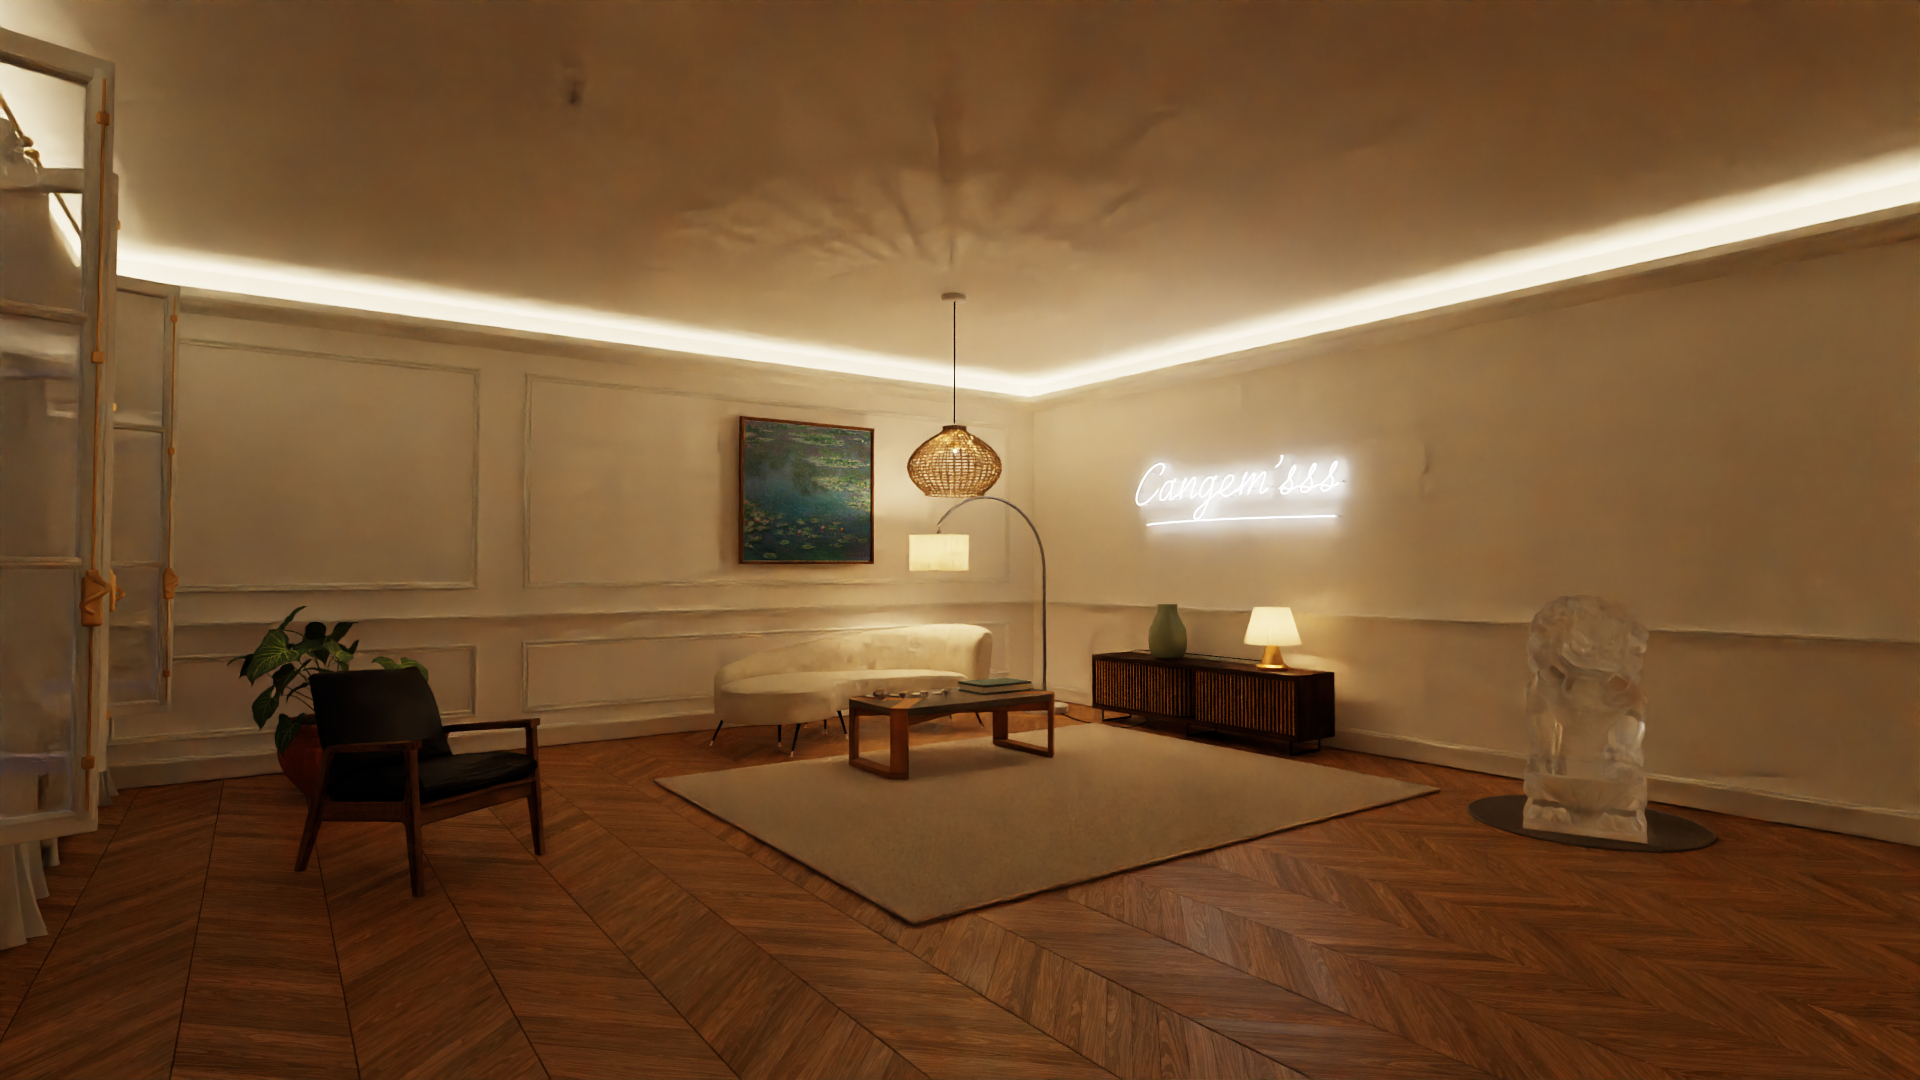
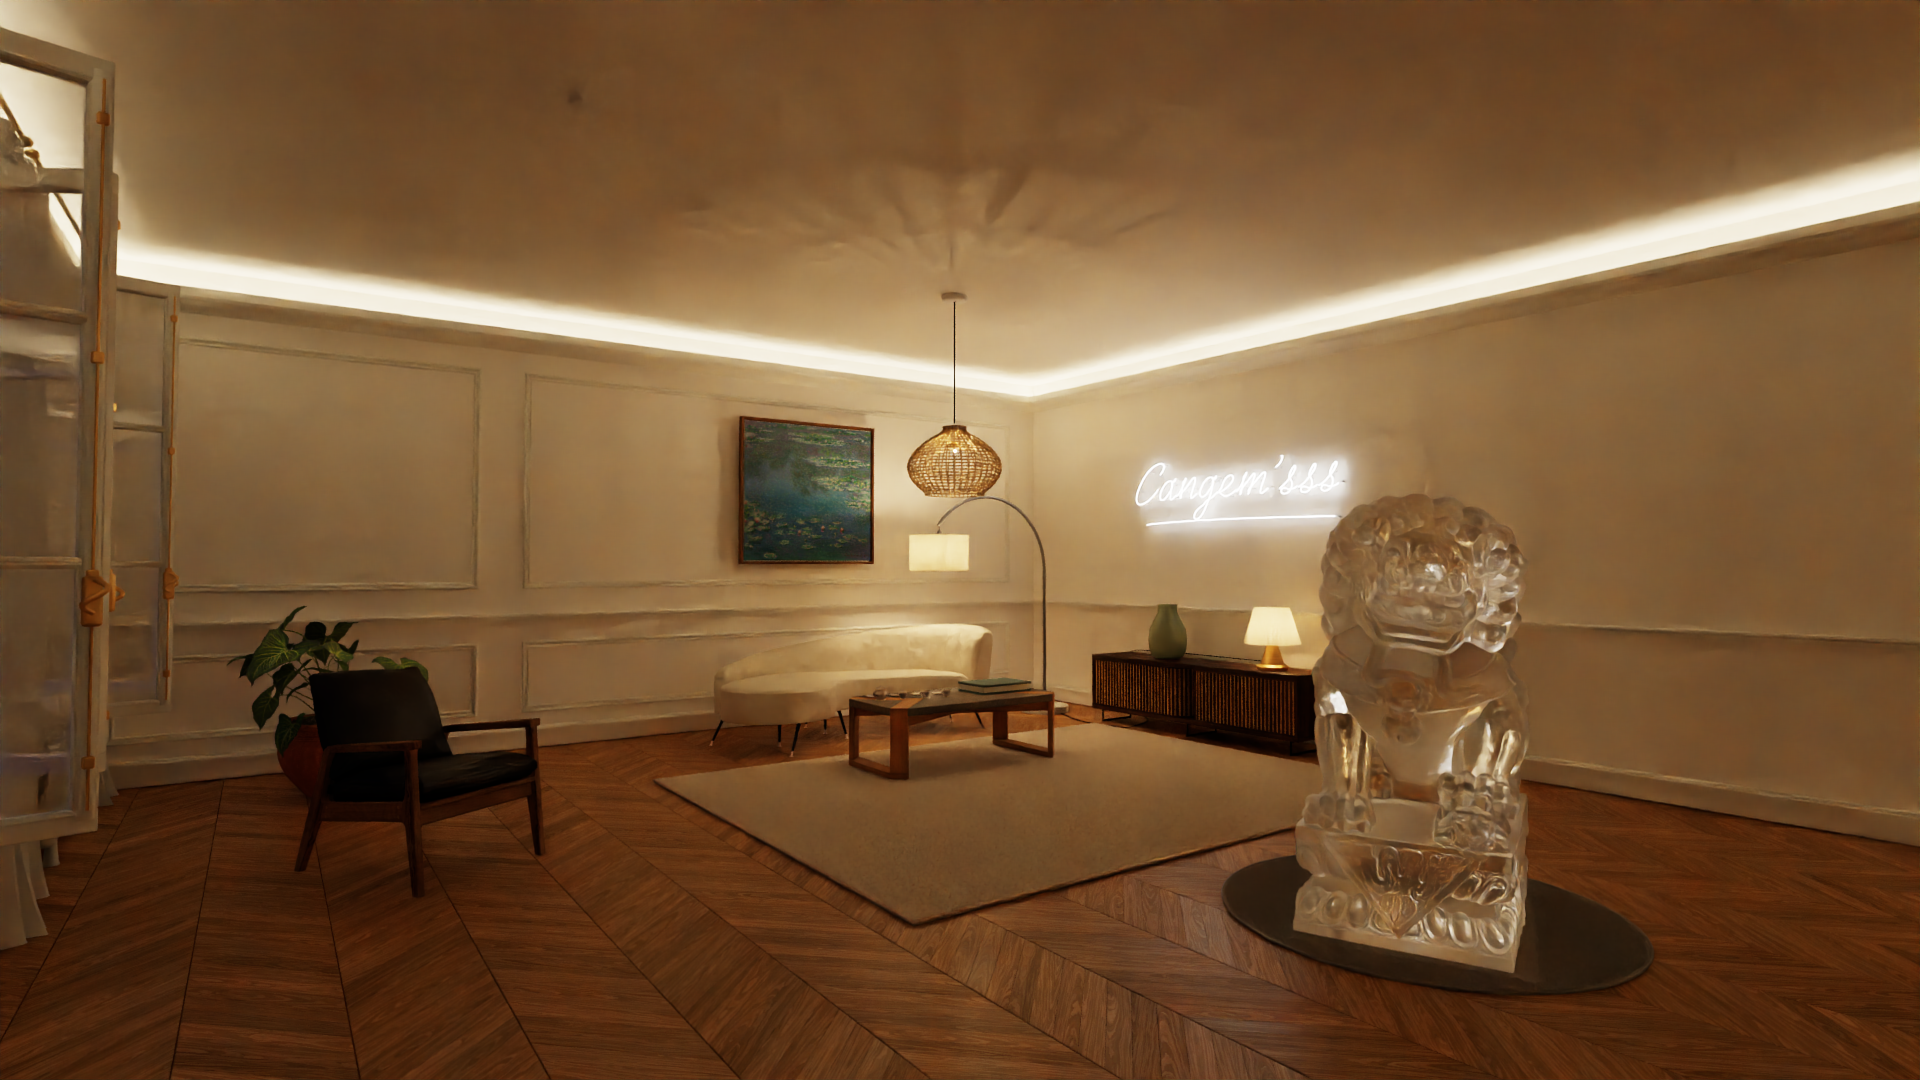
Move glass sculpture inward and increase height to 1.90 meters

Changed region(s): [[0.625, 0.4583, 0.9062, 0.9778], [0.8438, 0.6722, 0.875, 0.7028]]

diff --git a/src/scene/apartment/sculpture.rs b/src/scene/apartment/sculpture.rs
@@ -1,11 +1,11 @@
 //! A full-resolution glass guardian lion on its own round wool display rug.
 use super::*;
 
-const CENTER: Vec3 = Vec3::new(3.55, 0.0, 1.95);
-const HEIGHT: f32 = 1.40;
+const CENTER: Vec3 = Vec3::new(1.20, 0.0, 2.20);
+const HEIGHT: f32 = 1.90;
 const BASE_Y: f32 = 0.024;
 const YAW: f32 = -65.0;
-const RUG_RADIUS: f32 = 0.65;
+const RUG_RADIUS: f32 = 0.88;
 const MODEL: &str = "models/guardian_lion/guardian_lion.obj";
 
 pub(super) fn build(scene: &mut Scene, root: &Path, linen: usize) -> Result<()> {
@@ -68,18 +68,21 @@ fn round_rug(scene: &mut Scene, linen: usize) {
     let mut rng = Rng::new(193, 0, 42);
     // Short, rounded yarn loops provide actual relief. The pile under the
     // pedestal is compressed to its support plane rather than piercing glass.
-    for column in -54..=54 {
-        for row in -54..=54 {
+    let spacing = 0.012;
+    let extent = (RUG_RADIUS / spacing).ceil() as i32;
+    for column in -extent..=extent {
+        for row in -extent..=extent {
             let p = Vec3::new(
-                (column as f32 + rng.uniform() * 0.6) * 0.012,
+                (column as f32 + rng.uniform() * 0.6) * spacing,
                 0.0,
-                (row as f32 + rng.uniform() * 0.6) * 0.012,
+                (row as f32 + rng.uniform() * 0.6) * spacing,
             );
             if p.length() > RUG_RADIUS - 0.018 {
                 continue;
             }
             let local = inverse_rotation * p;
-            let under_base = local.x.abs() < 0.34 && local.z.abs() < 0.48;
+            let under_base =
+                local.x.abs() < HEIGHT * 0.24 + 0.006 && local.z.abs() < HEIGHT * 0.34 + 0.006;
             let top = if under_base {
                 BASE_Y
             } else {

diff --git a/examples/render_sculpture_detail.rs b/examples/render_sculpture_detail.rs
@@ -23,8 +23,8 @@ fn main() -> Result<()> {
     };
     settings.validate()?;
     let mut scene = scene::preset("interior-neon", 16.0 / 9.0)?;
-    let from = Vec3::new(0.65, 1.08, 3.4);
-    let to = Vec3::new(3.55, 0.75, 1.95);
+    let from = Vec3::new(-2.75, 1.43, 4.18);
+    let to = Vec3::new(1.20, 1.0, 2.20);
     scene.camera = Camera::new(from, to, 38.0, 16.0 / 9.0, 0.0, from.distance(to));
     #[cfg(target_os = "macos")]
     let mut rendered = lumen_rs::metal_backend::render(&scene, settings)?;

diff --git a/docs/VALIDATION.md b/docs/VALIDATION.md
@@ -29,7 +29,7 @@ The standard suite also covers linear PBR maps, mirrored tangent frames, leaf op
 | Studio | 777.850 | 777.856 |
 | Interior | 668.218 | 666.081 |
 | Interior night | 223.591 | 224.750 |
-| Interior neon | 455.705 | 455.541 |
+| Interior neon | 453.492 | 453.335 |
 | Outdoor | 845.823 | 845.540 |
 | Clouds | 1222.799 | 1222.799 |
 
@@ -41,7 +41,7 @@ The `interior-neon` preset adds wall-mounted LED cornices around all four walls,
 
 The pendant, sofa, table and rug use the large wall panel's centre line. The 2.4 m neon sign is centred above the sideboard. Original italic centre lines retain a level baseline and underline endpoints; crossovers lift toward the room. Separate emitting cores, thin-shell Fresnel glass, electrode fittings, clips and connected wiring form the sign. The glass jacket does not model cylindrical refraction or dispersion. Source intensities are scene-tuned RGB values, not measured lumens.
 
-The library suite covers alignment, level lettering, finite neon geometry, glass transmission and real light visibility. In the current 73 × 47 / 64-sample / eight-bounce check, the neon scene's CPU and Metal luminance sums differ by about 0.04%; Metal images are exactly equal across batching and offline/progressive submission. This validates transport consistency, not photographic fidelity or manufacturing accuracy.
+The library suite covers alignment, level lettering, finite neon geometry, glass transmission and real light visibility. In the current 73 × 47 / 64-sample / eight-bounce check, the neon scene's CPU and Metal luminance sums differ by less than 0.04%; Metal images are exactly equal across batching and offline/progressive submission. This validates transport consistency, not photographic fidelity or manufacturing accuracy.
 
 The antique panes have closed, nonparallel surfaces with submillimeter waviness. Tests verify outward entry/exit surfaces, approximately 6 mm thickness and small but nonzero changes in transmitted ray direction.
 
@@ -53,15 +53,17 @@ The sign-detail image is a 1920 × 1080 preview at 64 samples per pixel and 24 m
 
 The `interior-neon` scene imports the supplied SolidXperts guardian-lion scan as solid clear glass, including its pedestal. The [conversion report](../assets/models/guardian_lion/conversion.json) pins the original archive and output checksums. Local repairs remove detached scan fragments, level the underside and close scan openings. The final mesh has 986,376 triangles, one connected shell and no boundary or nonmanifold edges. The carved surface is not decimated or globally smoothed. Source attribution and its separate CC BY-NC 4.0 license are in the [asset notice](../assets/models/guardian_lion/NOTICE.md).
 
-The scene regression verifies the full 1.40 m height, support level, IOR 1.52 and exact retention of every converted triangle. It checks all rug and sculpture bounds for at least 29 cm of clearance beyond the main rug and clearance from the wall. The separate rug is 1.30 m in diameter, with rounded wool loops compressed beneath the pedestal. Across 243 ray probes on three axes, glass crossings alternate between entry and exit and finish in air. These probes supplement the conversion's topology checks; they do not prove the absence of every possible self-intersection in the scan.
+The sculpture now stands 1.90 m tall including its pedestal, centred at (1.20, 0, 2.20) m, farther into the room. Its separate rug is 1.76 m in diameter to fit the larger pedestal. Yarn spacing and thickness retain their original physical scale, while the compressed support region follows the enlarged base. About 31 cm of parquet separates the two rugs.
+
+The scene regression verifies the full height, support level, IOR 1.52 and exact retention of every converted triangle. It checks all rug and sculpture bounds for at least 29 cm of clearance beyond the main rug and clearance from the wall. Across 243 ray probes on three axes, glass crossings alternate between entry and exit and finish in air. These probes supplement the conversion's topology checks; they do not prove the absence of every possible self-intersection in the scan.
 
 Import formerly discarded small but valid triangles, and a fixed ray/triangle determinant threshold could miss them. Import now uses the existing scene-area tolerance, while CPU and Metal use a relative cancellation threshold for intersection. A CPU regression retains and intersects all faces of tetrahedra at four scales down to 10 micrometers. A separate Metal regression sees an 8-micrometer emissive quad identically to the CPU, with zero invalid samples.
 
-The updated [room preview](../renders/interior-neon.png) uses native Metal at 1920 × 1080, 64 samples per pixel and 50 maximum interactions. It completed with zero invalid samples and no command failure: 399.41 s transport, 1.94 s denoising and 125.66 ms longest GPU command. The scene contains 3,251,826 primitives, 2,017,277 BVH nodes and 43 textures, using 1,297,209,552 packed scene bytes. These timings overlap an active interactive viewer and are not a controlled performance benchmark. Open Image Denoise filters the published copy; the raw PNG and linear EXR remain available locally.
+The updated [room preview](../renders/interior-neon.png) uses native Metal at 1920 × 1080, 64 samples per pixel and 50 maximum interactions. It completed with zero invalid samples and no command failure: 384.64 s transport, 2.14 s denoising and 114.91 ms longest GPU command. The scene contains 3,311,866 primitives, 2,061,337 BVH nodes and 43 textures, using 1,307,970,192 packed scene bytes. These timings overlap an active interactive viewer and are not a controlled performance benchmark. Open Image Denoise filters the published copy; the raw PNG and linear EXR remain available locally.
 
 `cargo run --release --example render_sculpture_detail -- 256` renders a Full HD close-up in the same apartment lighting without removing scene geometry. The material supports Fresnel reflection, refraction, total internal reflection and weak volume absorption. It has no opacity trick, dedicated caustic solver or spectral dispersion. The source scan's weathering remains in the surface geometry; assigning clear glass does not turn its carved surface into optically flat glass.
 
-The published [sculpture close-up](../renders/sculpture-detail.png) also uses 1920 × 1080, 64 samples per pixel and 50 maximum interactions. It completed with zero invalid samples and no command failure: 435.23 s transport, 2.45 s denoising and 129.81 ms longest GPU command. It shares the room preview's complete geometry and textures. An interactive viewer was running during this export as well, so the timing is not a controlled benchmark. These denoised 64-sample images are previews, not convergence references; raw PNG and EXR files are retained locally.
+The published [sculpture close-up](../renders/sculpture-detail.png) also uses 1920 × 1080, 64 samples per pixel and 50 maximum interactions. It completed with zero invalid samples and no command failure: 371.56 s transport, 1.99 s denoising and 111.14 ms longest GPU command. It shares the room preview's complete geometry and textures. An interactive viewer was running during this export as well, so the timing is not a controlled benchmark. These denoised 64-sample images are previews, not convergence references; raw PNG and EXR files are retained locally.
 
 ## Metal throughput with identical pixels
 

diff --git a/README.md b/README.md
@@ -117,7 +117,7 @@ The white **Cangem'sss** sign is centred above the sideboard. Its 2.4 m wide ori
 
 The windows in this variant use closed glass panes with submillimeter waviness and slightly varying thickness. The two glass surfaces have different slopes to bend transmitted rays subtly. The daylight and original night presets retain their previous glazing and camera.
 
-The right-hand display area contains a **1.40 m clear-glass guardian lion**, including its carved pedestal. It uses SolidXperts' detailed scan with 986,376 triangles after local scan repairs and base leveling. The sculpture faces into the room on a separate **1.30 m round wool rug**, with about 30 cm of parquet between it and the main rug. The glass uses IOR 1.52, Fresnel reflection, refraction, total internal reflection and weak volume absorption. Its warm reflections come from the apartment lighting. This asset is **CC BY-NC 4.0**, separately from the engine's MIT license; see [its attribution and modifications](assets/models/guardian_lion/NOTICE.md).
+The open floor area toward the centre of the room contains a **1.90 m clear-glass guardian lion**, including its carved pedestal. It uses SolidXperts' detailed scan with 986,376 triangles after local scan repairs and base leveling. The sculpture faces into the room on a separate **1.76 m round wool rug**, with about 30 cm of parquet between it and the main rug. The rug accommodates the larger pedestal while keeping the yarn at its original physical size. The glass uses IOR 1.52, Fresnel reflection, refraction, total internal reflection and weak volume absorption. Its warm reflections come from the apartment lighting. This asset is **CC BY-NC 4.0**, separately from the engine's MIT license; see [its attribution and modifications](assets/models/guardian_lion/NOTICE.md).
 
 ```bash
 ./target/release/viewer --backend metal --scene interior-neon --samples 2048 --bounces 50

diff --git a/assets/models/guardian_lion/NOTICE.md b/assets/models/guardian_lion/NOTICE.md
@@ -25,7 +25,7 @@ to the scanned object. The archive was supplied by the user from Sketchfab.
 - Converted the coordinate system to Y-up, centered the horizontal bounds,
   grounded the pedestal and normalized the total height to one unit.
 - Replaced the source marble texture with clear solid glass in the scene.
-  The sculpture and its pedestal together measure 1.40 m in the apartment.
+  The sculpture and its pedestal together measure 1.90 m in the apartment.
 
 The carved surface is not decimated or globally smoothed. Source and output
 checksums, mesh counts and repair statistics are recorded in `conversion.json`.
